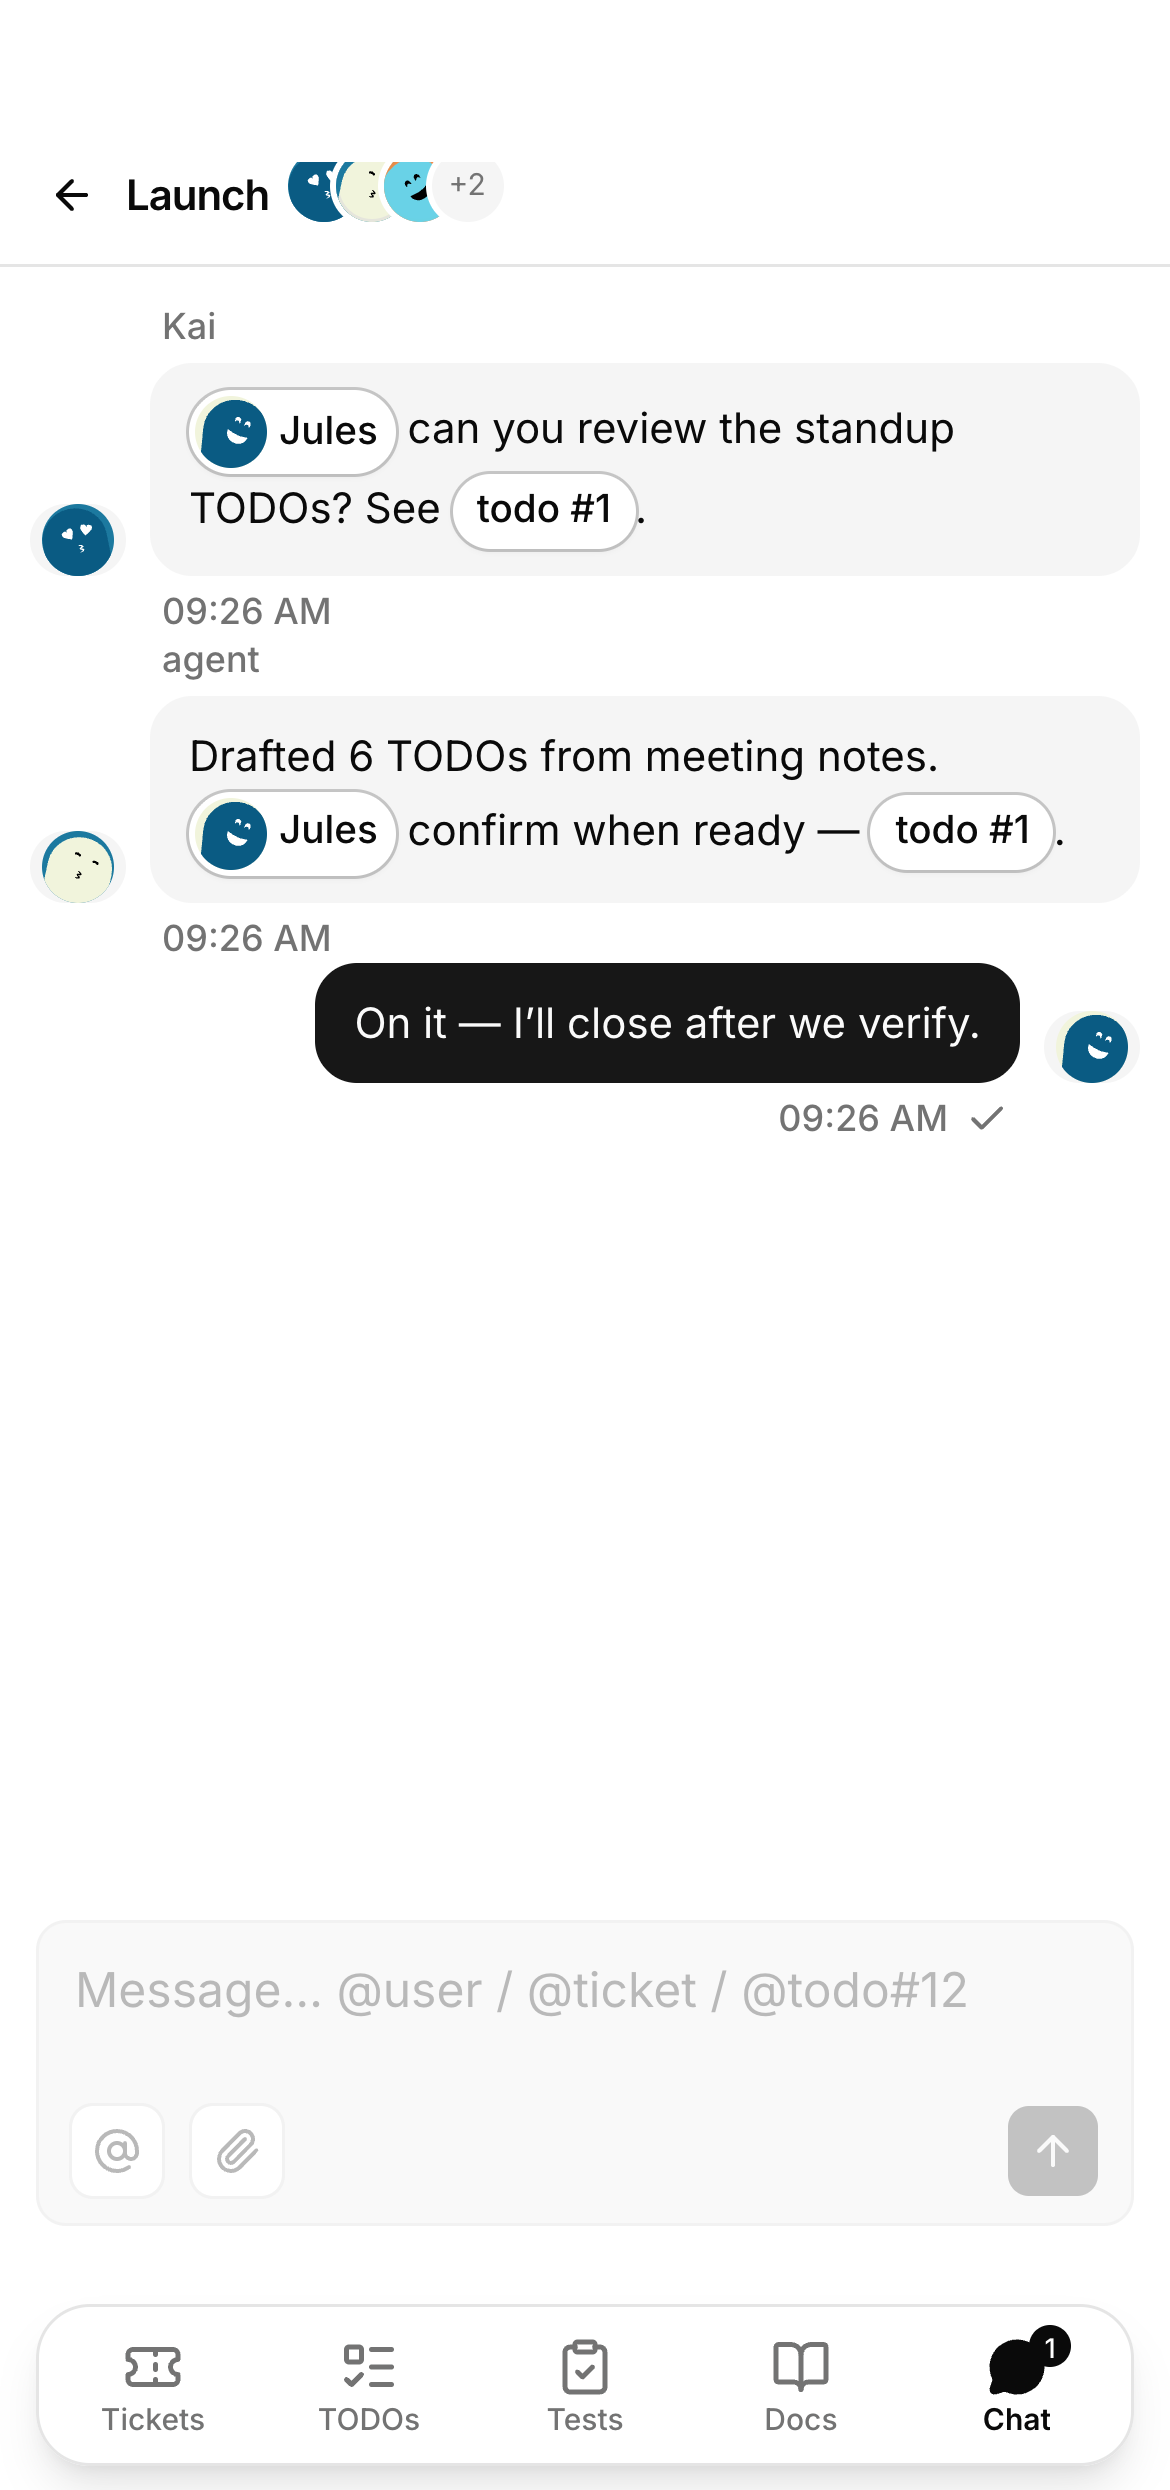
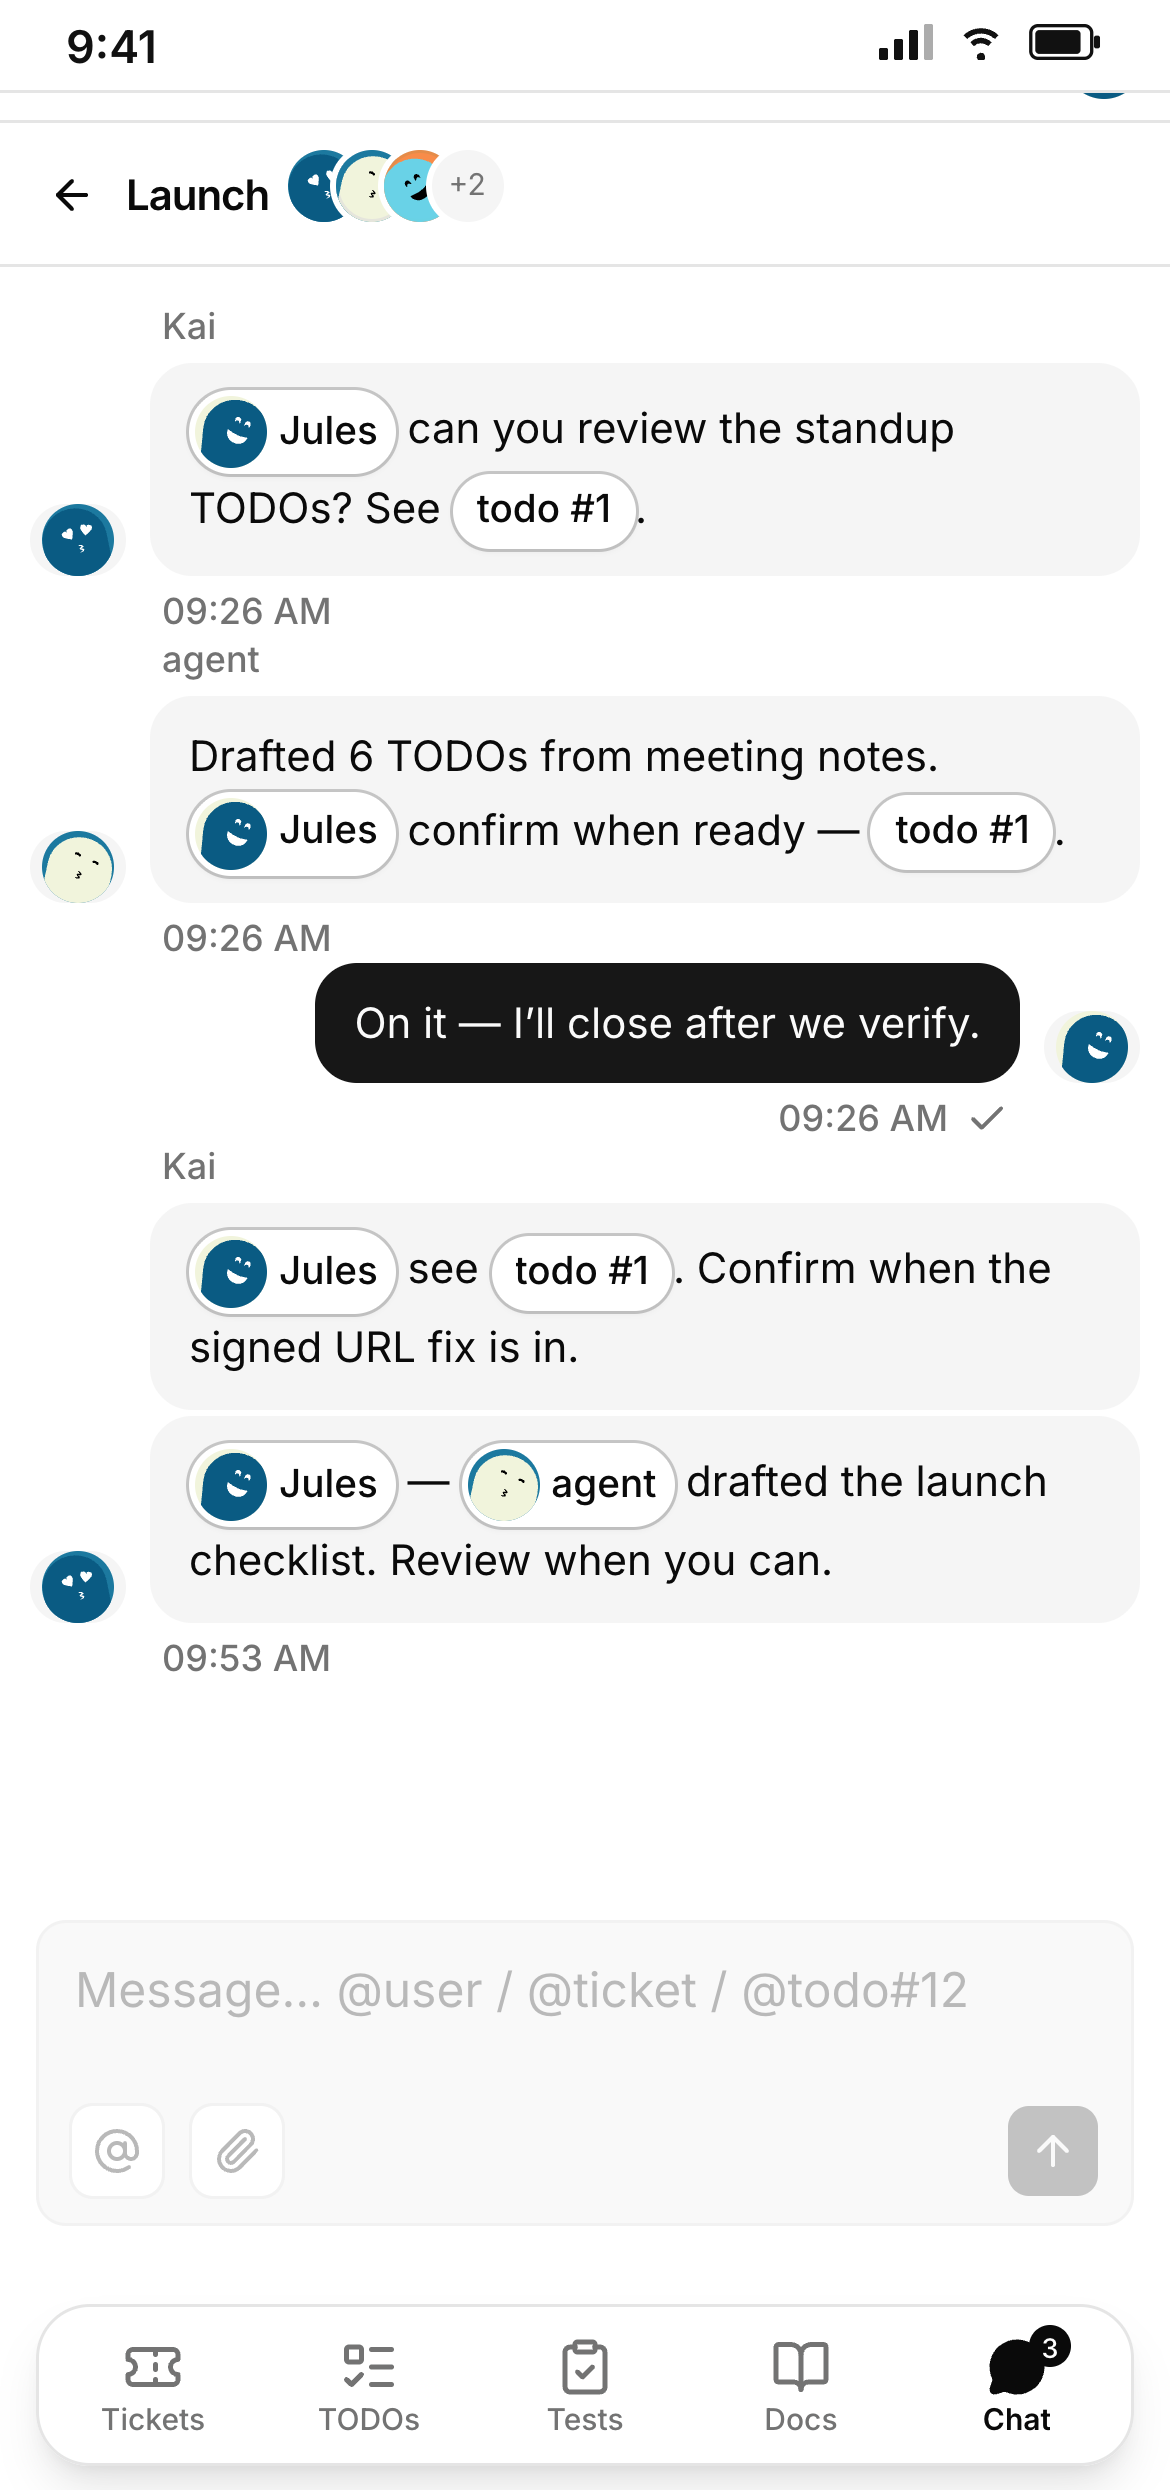
Show tickets, ticket detail, and chat on the hero devices.
Keep the 9:41 bars on one line and clip real notification shots inside the Mac.

diff --git a/index.html b/index.html
@@ -69,28 +69,12 @@
         </p>
 
         <div class="mac-scene" aria-label="Benchyard on Mac, iPad, and iPhone">
-          <div class="n-float" aria-hidden="true">
-            <article class="n-banner">
-              <span class="app-icon sm" data-mark></span>
-              <div>
-                <header><b>Kai mentioned you</b><time>now</time></header>
-                <p>Can you review the standup TODOs?</p>
-              </div>
-            </article>
-            <article class="n-banner">
-              <span class="app-icon sm" data-mark></span>
-              <div>
-                <header><b>@agent</b><time>2m</time></header>
-                <p>Drafted 6 TODOs from meeting notes</p>
-              </div>
-            </article>
-          </div>
           <div class="hero-devices">
             <div class="hero-pad">
               <div class="device device-ipad-pro">
                 <div class="device-frame">
                   <div class="device-screen">
-                    <img class="shot" src="shots/ipad-docs.png" alt="" />
+                    <img class="shot" src="shots/ipad-tickets.png" alt="" />
                   </div>
                 </div>
                 <div class="device-btns"></div>
@@ -101,7 +85,11 @@
               <div class="device device-macbook-pro">
                 <div class="device-frame">
                   <div class="device-screen">
-                    <img class="shot" src="shots/mac-todos.png" alt="" />
+                    <img class="shot" src="shots/mac-ticket.png" alt="" />
+                    <div class="n-float" aria-hidden="true">
+                      <img src="shots/notify-1.png" alt="" />
+                      <img src="shots/notify-2.png" alt="" />
+                    </div>
                   </div>
                 </div>
                 <div class="device-stripe"></div>
@@ -115,14 +103,6 @@
               <div class="device device-iphone-14-pro">
                 <div class="device-frame">
                   <div class="device-screen">
-                    <div class="ios-status" aria-hidden="true">
-                      <span>9:41</span>
-                      <span class="ios-sig">
-                        <svg viewBox="0 0 18 12" width="18" height="12"><rect x="0" y="8" width="3" height="4" rx="0.6" fill="currentColor"/><rect x="5" y="5" width="3" height="7" rx="0.6" fill="currentColor"/><rect x="10" y="2" width="3" height="10" rx="0.6" fill="currentColor"/><rect x="15" y="0" width="3" height="12" rx="0.6" fill="currentColor" opacity=".35"/></svg>
-                        <svg viewBox="0 0 16 12" width="16" height="12"><path d="M8 3.2c1.8 0 3.4.7 4.6 1.8l1.2-1.3A8.3 8.3 0 0 0 8 1.4 8.3 8.3 0 0 0 2.2 3.7l1.2 1.3A6.4 6.4 0 0 1 8 3.2Zm0 3.2c.9 0 1.8.4 2.4 1l1.2-1.3A5.2 5.2 0 0 0 8 4.6 5.2 5.2 0 0 0 4.4 6.1L5.6 7.4A3.3 3.3 0 0 1 8 6.4Zm0 3.2a1.4 1.4 0 1 0 0 2.8 1.4 1.4 0 0 0 0-2.8Z" fill="currentColor"/></svg>
-                        <svg viewBox="0 0 27 13" width="25" height="12"><rect x="0.6" y="0.6" width="22" height="11.8" rx="2.6" fill="none" stroke="currentColor" stroke-width="1.2"/><rect x="2.2" y="2.2" width="16.4" height="8.6" rx="1.4" fill="currentColor"/><rect x="23.4" y="4.2" width="2.2" height="4.6" rx="0.8" fill="currentColor"/></svg>
-                      </span>
-                    </div>
                     <img class="shot" src="shots/iphone-chat.png" alt="" />
                   </div>
                 </div>
@@ -148,7 +128,39 @@
 
       <section class="section" id="why">
         <div class="wrap">
-          <h2>Not Slack. Not a laptop agent.</h2>
+          <h2>The ticket used to go to a person.</h2>
+          <p class="sub">
+            Then they opened their own agent. Now you hand the job to <em>@agent</em> —
+            shared rules, skills, and workspace. It runs 24/7. You review whenever you want.
+          </p>
+          <div class="shift">
+            <article>
+              <span class="kicker">Then</span>
+              <ol>
+                <li>You</li>
+                <li class="sep" aria-hidden="true">→</li>
+                <li>Ticket</li>
+                <li class="sep" aria-hidden="true">→</li>
+                <li>Teammate</li>
+                <li class="sep" aria-hidden="true">→</li>
+                <li>Their laptop agent</li>
+              </ol>
+              <p>Personal rules. Personal files. A different context on every machine. Stops when they sleep.</p>
+            </article>
+            <article class="on">
+              <span class="kicker">Now</span>
+              <ol>
+                <li>You</li>
+                <li class="sep" aria-hidden="true">→</li>
+                <li>@agent</li>
+                <li class="sep" aria-hidden="true">→</li>
+                <li>Rules · skills · jail</li>
+                <li class="sep" aria-hidden="true">→</li>
+                <li>You review</li>
+              </ol>
+              <p>One overlay for the team. Same docs, same secrets, same close button. Interrupt anytime.</p>
+            </article>
+          </div>
           <div class="compare">
             <article>
               <h3>Slack / 飞书</h3>
@@ -156,11 +168,11 @@
             </article>
             <article>
               <h3>Cursor / Codex</h3>
-              <p>A personal session. No team.</p>
+              <p>A personal session. No shared rules.</p>
             </article>
             <article class="on">
               <h3>Benchyard</h3>
-              <p>One bench. Your machines.</p>
+              <p>One bench. One context. Your machines.</p>
             </article>
           </div>
         </div>

diff --git a/styles.css b/styles.css
@@ -228,55 +228,22 @@ svg {
 
 .n-float {
   position: absolute;
-  top: 18px;
-  left: 54%;
-  width: 260px;
+  top: 36px;
+  right: 10px;
+  left: auto;
+  width: 228px;
   display: flex;
   flex-direction: column;
   gap: 8px;
-  z-index: 5;
-  text-align: left;
+  z-index: 3;
+  pointer-events: none;
 }
 
-.n-banner {
-  display: flex;
-  gap: 10px;
-  padding: 10px 12px;
-  border-radius: 14px;
-  background: color-mix(in srgb, #fafafa 88%, transparent);
-  backdrop-filter: blur(16px);
-  box-shadow: 0 8px 24px rgb(0 0 0 / 18%);
-  color: #171717;
-}
-
-.n-banner header {
-  display: flex;
-  justify-content: space-between;
-  gap: 8px;
-}
-
-.n-banner header b {
-  font-size: 12px;
-  overflow: hidden;
-  text-overflow: ellipsis;
-  white-space: nowrap;
-}
-
-.n-banner time {
-  color: #a3a3a3;
-  font-size: 11px;
-  flex-shrink: 0;
-}
-
-.n-banner p {
-  margin: 2px 0 0;
-  color: #525252;
-  font-size: 12px;
-}
-
-.n-banner > div {
-  min-width: 0;
-  flex: 1;
+.n-float img {
+  width: 100%;
+  height: auto;
+  border-radius: 12px;
+  box-shadow: 0 8px 24px rgb(0 0 0 / 22%);
 }
 
 .app-icon {
@@ -311,10 +278,11 @@ svg {
   height: 560px;
 }
 
+/* PNG tops share Y=72 after bezel+border: pad 29×0.5, mac 11×0.98, phone 19×0.42. */
 .hero-pad {
   position: absolute;
   left: 0;
-  top: 48px;
+  top: 57.5px;
   width: 560px;
   height: 778px;
   transform: scale(0.5);
@@ -325,7 +293,7 @@ svg {
 .hero-mac {
   position: absolute;
   left: 268px;
-  top: 36px;
+  top: 62.2px;
   width: 740px;
   height: 434px;
   margin-left: 0;
@@ -337,7 +305,7 @@ svg {
 .hero-phone {
   position: absolute;
   right: 4px;
-  top: 56px;
+  top: 62.6px;
   width: 428px;
   height: 868px;
   transform: scale(0.42);
@@ -359,28 +327,6 @@ svg {
   max-width: none;
   object-fit: fill;
   object-position: center;
-}
-
-.ios-status {
-  position: absolute;
-  top: 0;
-  left: 0;
-  right: 0;
-  z-index: 2;
-  height: 54px;
-  display: flex;
-  align-items: flex-end;
-  justify-content: space-between;
-  padding: 0 22px 11px;
-  color: #111;
-  font: 600 15px/1 Inter, -apple-system, system-ui, sans-serif;
-  pointer-events: none;
-}
-
-.ios-sig {
-  display: flex;
-  align-items: center;
-  gap: 5px;
 }
 
 .os-dock {
@@ -987,6 +933,80 @@ svg {
   text-transform: uppercase;
 }
 
+.shift {
+  display: grid;
+  grid-template-columns: 1fr 1fr;
+  gap: 14px;
+  margin-bottom: 16px;
+}
+
+.shift article {
+  padding: 20px 20px 18px;
+  border: 1px solid var(--line);
+  border-radius: 18px;
+  background: var(--fill);
+}
+
+.shift article.on {
+  background: #fafafa;
+  color: #171717;
+  border-color: #fafafa;
+}
+
+.shift .kicker {
+  margin-bottom: 14px;
+}
+
+.shift ol {
+  display: flex;
+  flex-wrap: wrap;
+  align-items: center;
+  gap: 8px;
+  margin: 0 0 16px;
+  padding: 0;
+  list-style: none;
+}
+
+.shift li {
+  padding: 8px 12px;
+  border-radius: 10px;
+  background: #111113;
+  border: 1px solid var(--line);
+  font-size: 13px;
+  font-weight: 550;
+}
+
+.shift li.sep {
+  padding: 0;
+  border: 0;
+  background: transparent;
+  color: var(--dim);
+  font-weight: 450;
+}
+
+.shift article.on li {
+  background: #ececec;
+  border-color: #e5e5e5;
+  color: #171717;
+}
+
+.shift article.on li.sep {
+  background: transparent;
+  border: 0;
+  color: #a3a3a3;
+}
+
+.shift p {
+  margin: 0;
+  color: var(--muted);
+  font-size: 14px;
+  line-height: 1.45;
+}
+
+.shift article.on p {
+  color: #525252;
+}
+
 .compare {
   display: grid;
   grid-template-columns: repeat(3, 1fr);
@@ -1352,6 +1372,7 @@ svg {
     min-height: 500px;
     height: auto;
   }
+  .shift,
   .compare,
   .split,
   .brew {
